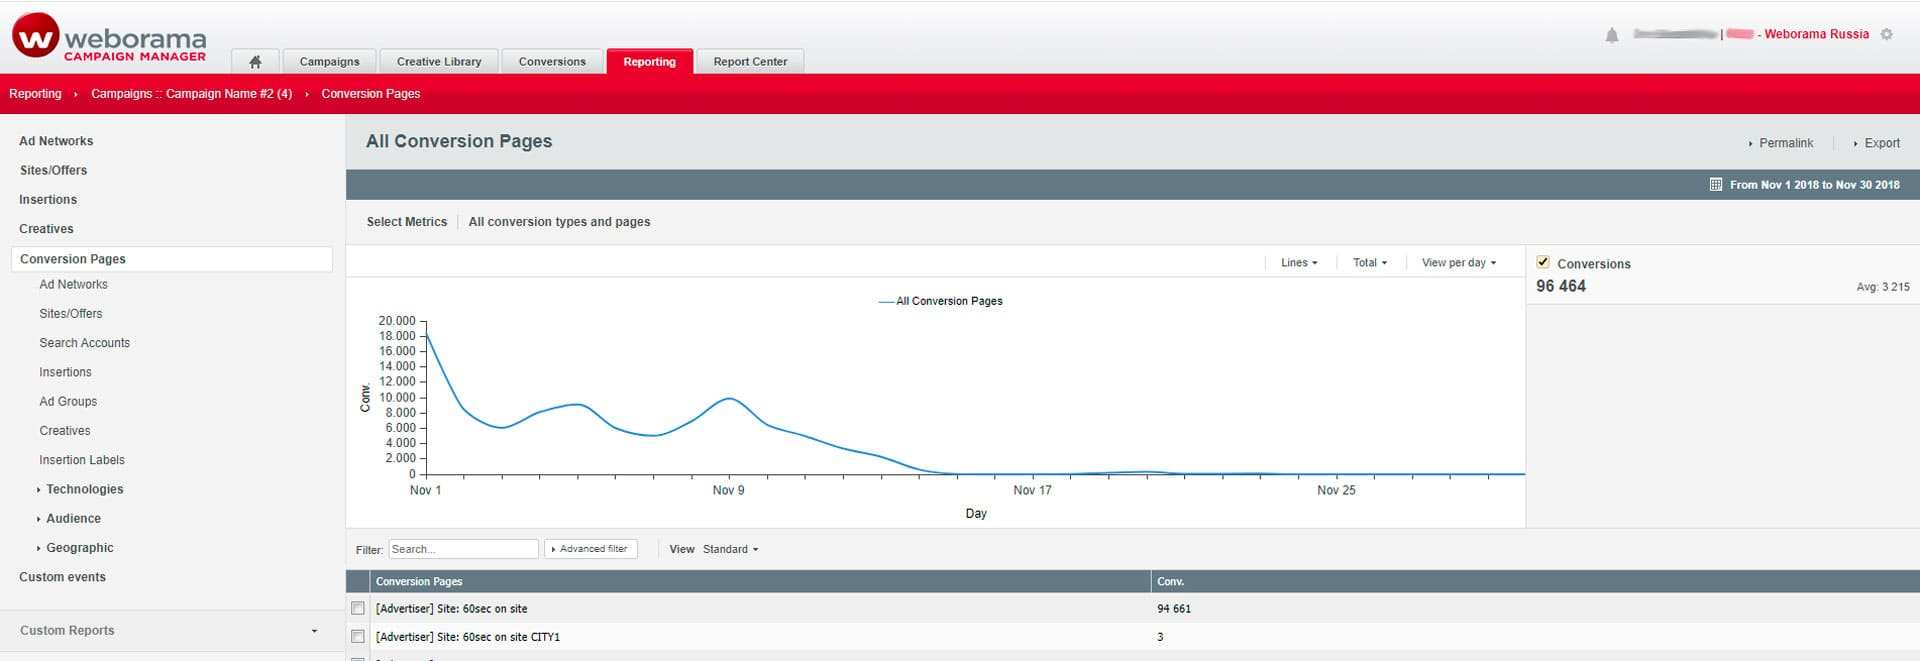
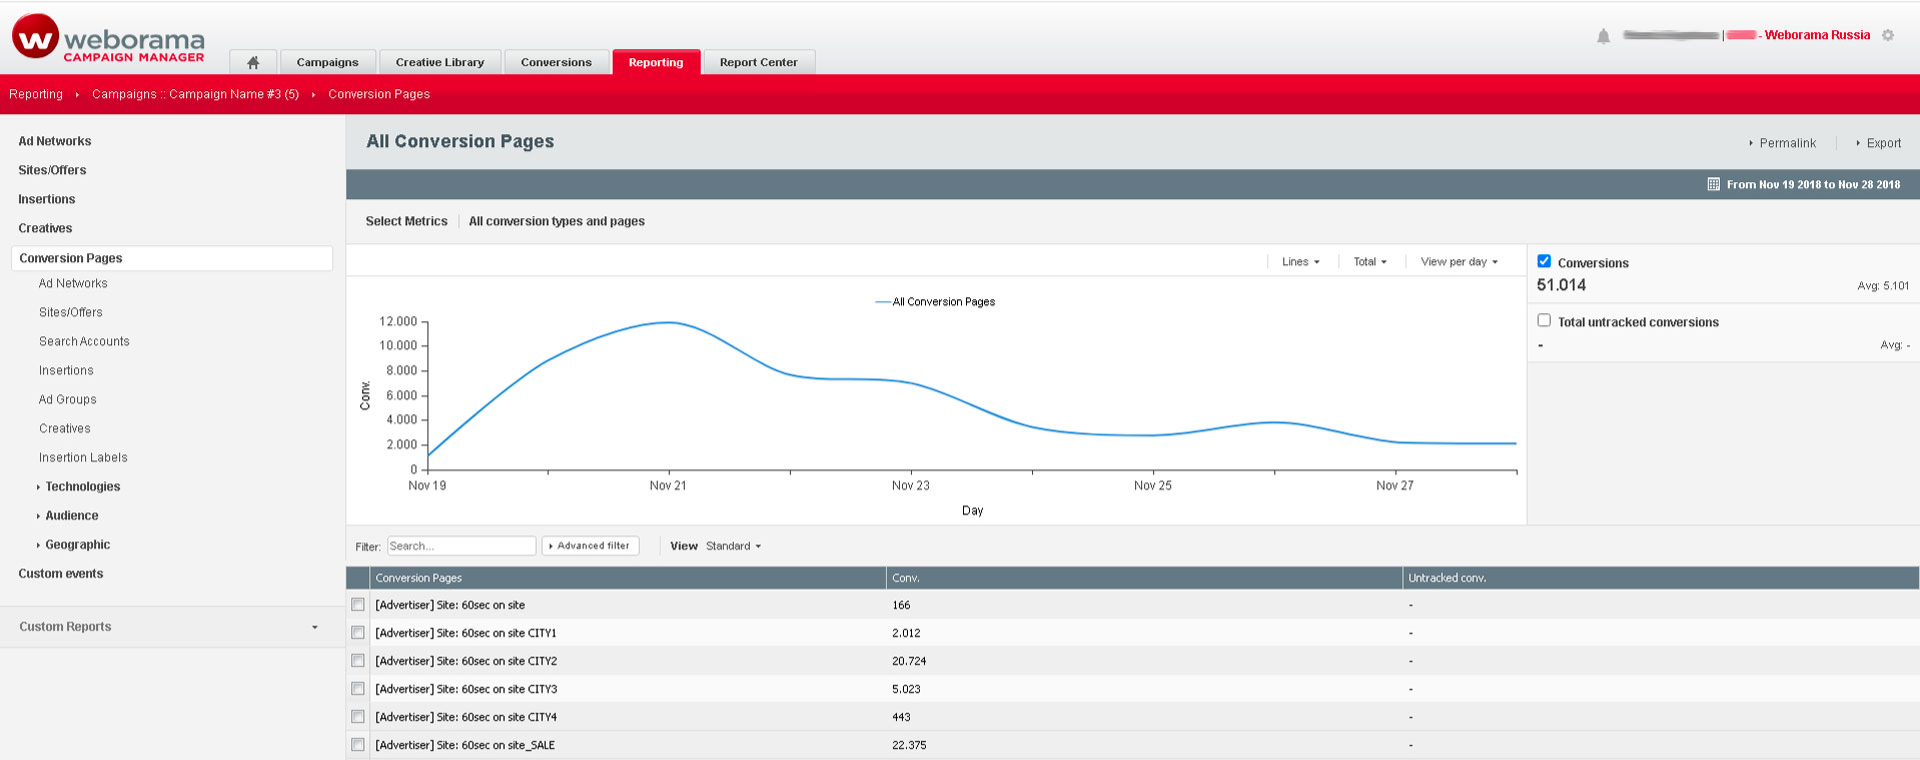
new pages

diff --git a/src/pages/conversion-report/conversion-tags.jsx b/src/pages/conversion-report/conversion-tags.jsx
@@ -1,0 +1,102 @@
+import React from "react";
+import { sectionsTexts } from "../../props/sectionsTexts";
+import { Image } from "../../components/image";
+import { SectionHeading } from "../../components/sectionHeading";
+import { RedWords } from "../../components/redWords";
+import { Link } from "../../components/links";
+
+export const ConversionTags = () => {
+    return (
+        <div className="section__wrapper">
+            <section className="section section__not-homepage" id="conversion-report">
+                <SectionHeading prop={sectionsTexts.conversionTags} />
+                <div className="section__content">
+                    <p className="section__lead">
+                        Чтобы вывести в&nbsp;отчет данные по&nbsp;конверсиям с&nbsp;привязкой к&nbsp;рекламной кампании необходимо:
+                    </p>
+                    <ol className="section__list">
+                        <li className="section__list-item">
+                            Зайти в&nbsp;основную вкладку <Link prop={{ text: "«Reporting»", href: "/reporting" }} />
+                        </li>
+                        <li className="section__list-item">
+                            Выбирать структурную единицу <Link prop={{ text: "«Campaigns»", href: "/campaigns" }} /> в&nbsp;меню уровней
+                            и&nbsp;отчетов (Столбец слева);
+                        </li>
+                        <li className="section__list-item">
+                            Провалиться внутри нужно кампании, кликнув по ней (Попадаем в подробный отчет с разбивкой по структуре –{" "}
+                            <RedWords prop={"«Campaign tree»"} />
+                            );
+                        </li>
+                        <li className="section__list-item">
+                            Зайти в&nbsp;меню <RedWords prop={"«Select Metrics»"} /> в&nbsp;левом углу над графиком;
+                        </li>
+                        <li className="section__list-item">
+                            В&nbsp;разделе <RedWords prop={"«Basic»"} /> выбрать метрику <RedWords prop={"«Conversions»"} /> и&nbsp;необходимы набор
+                            дополнительных метрик в&nbsp;разделе <RedWords prop={"«Performance»"} />;
+                        </li>
+                        <li className="section__list-item">
+                            Нажать <RedWords prop={"«Save & Close»"} /> для применения выбранных условий.
+                        </li>
+                    </ol>
+                </div>
+                <Image prop={sectionsTexts.conversionTags.image} />
+
+                <div className="section__content">
+                    <p className="section__lead">
+                        Для того, чтобы отобразить статистику по&nbsp;конверсиям на&nbsp;графике, необходимо поставить галочку в&nbsp;правом меню
+                        справа от&nbsp;графика.
+                    </p>
+                </div>
+                <Image prop={sectionsTexts.conversionTags.imageTwo} />
+
+                <div className="section__content">
+                    <p className="section__lead">Для разбивки конверсий по&nbsp;типам необходимо:</p>
+                    <ol className="section__list">
+                        <li className="section__list-item">
+                            Провалиться в&nbsp;меню <RedWords prop={"«All conversion types and pages»"} /> в&nbsp;левом углу над графиком;
+                        </li>
+                        <li className="section__list-item">
+                            В&nbsp;блоке <RedWords prop={"«Conversion types»"} /> выбрать необходимый тип конверсии;
+                        </li>
+                        <li className="section__list-item">
+                            Ниже в&nbsp;этом&nbsp;же блоке в&nbsp;разделе <RedWords prop={"«Display»"} /> выбираем опцию{" "}
+                            <RedWords prop={"«Breakdown by types»"} />, предварительно настроив список необходимых тегов в&nbsp;правом меню;
+                        </li>
+                        <li className="section__list-item">
+                            Кликнуть на&nbsp;
+                            <RedWords prop={"«Save & Close»"} /> для отображения настроенных параметров.
+                        </li>
+                    </ol>
+                </div>
+                <Image prop={sectionsTexts.conversionTags.imageThree} />
+
+                <div className="section__content">
+                    <p className="section__lead">
+                        Для просмотра данных по&nbsp;общему количеству конверсий без привязки к&nbsp;рекламной кампании, но&nbsp;отдельно
+                        по&nbsp;конверсионным тегам, необходимо:
+                    </p>
+                    <ol className="section__list">
+                        <li className="section__list-item">
+                            Перейти в&nbsp;раздел <RedWords prop={"«Conversion pages»"} /> в&nbsp;левом меню.
+                        </li>
+                    </ol>
+                </div>
+                <Image prop={sectionsTexts.conversionTags.imageFour} />
+
+                <div className="section__content">
+                    <p className="section__lead">
+                        Для того, чтобы просмотреть конверсии с&nbsp;детализацией по&nbsp;тегам и&nbsp;с&nbsp;привязкой к&nbsp;любой
+                        из&nbsp;структурных единиц (Проектам&nbsp;/ Каналам&nbsp;/ Кампаниям и&nbsp;т.&nbsp;д.) необходимо:
+                    </p>
+                    <ol className="section__list">
+                        <li className="section__list-item">
+                            В&nbsp;разделе под <RedWords prop={"«Conversion pages»"} /> выбрать необходимую структурную единицу, например,
+                            <RedWords prop={"«Sites/Offers»"} />.
+                        </li>
+                    </ol>
+                </div>
+                <Image prop={sectionsTexts.conversionTags.imageFive} />
+            </section>
+        </div>
+    );
+};

diff --git a/src/props/sectionsTexts.jsx b/src/props/sectionsTexts.jsx
@@ -16,6 +16,12 @@ import viewsReport from "../images/views-report.jpg";
 import viewsReportTwo from "../images/views-report-two.jpg";
 import viewsReportThree from "../images/views-report-three.jpg";
 import conversionReport from "../images/report-conversions.jpg";
+import conversionReportTwo from "../images/conversion-report-two.jpg";
+import conversionReportThree from "../images/conversion-report-three.jpg";
+import conversionReportFour from "../images/conversion-report-four.jpg";
+import conversionReportFive from "../images/conversion-report-five.jpg";
+import conversionReportSix from "../images/conversion-report-six.jpg";
+import conversionReportSeven from "../images/conversion-report-seven.jpg";
 import automatization from "../images/automatization.jpg";
 import automatizationTwo from "../images/automatization-two.jpg";
 import automatizationThree from "../images/automatization-three.jpg";
@@ -140,12 +146,24 @@ export const sectionsTexts = {
         classes: "section section__not-homepage",
         id: "conversion",
     },
+    conversionTags: {
+        title: "ОТЧЕТ ПО КОНВЕРСИЯМ И КОНВЕРСИОННЫМ ТЕГАМ",
+        image: conversionReportTwo,
+        imageTwo: conversionReportThree,
+        imageThree: conversionReportFour,
+        imageFour: conversionReportFive,
+        imageFive: conversionReportSix,
+        imageSix: conversionReportSeven,
+        classes: "section section__not-homepage",
+        id: "conversion-tags",
+    },
     automatization: {
         title: "Автоматизация отчетов",
         image: automatization,
         imageTwo: automatizationTwo,
         imageThree: automatizationThree,
         imageFour: automatizationFour,
+
         classes: "section section__not-homepage",
         id: "automatization",
     },

diff --git a/src/App.jsx b/src/App.jsx
@@ -22,6 +22,7 @@ import { AuditoriaReport } from "./pages/available-reports/auditoria-report";
 import { GeoReport } from "./pages/available-reports/geo-report";
 import { ConversionReport } from "./pages/conversion-report/conversion-report";
 import { Conversions } from "./pages/conversion-report/conversions";
+import { ConversionTags } from "./pages/conversion-report/conversion-tags";
 import { Automatization } from "./pages/automatization";
 import { NotFound } from "./pages/notFound";
 
@@ -52,6 +53,7 @@ function App() {
                     <Route path="/geo-report" element={<GeoReport />} />
                     <Route path="/conversion-report" element={<ConversionReport />} />
                     <Route path="/conversions" element={<Conversions />} />
+                    <Route path="/conversion-tags" element={<ConversionTags />} />
                     <Route path="/metrics" element={<Metrics />} />
                     <Route path="/automatization" element={<Automatization />} />
                     <Route path="/not-found" element={<NotFound />} />

diff --git a/src/pages/conversion-report/conversions.jsx b/src/pages/conversion-report/conversions.jsx
@@ -3,12 +3,11 @@ import { sectionsTexts } from "../../props/sectionsTexts";
 import { Image } from "../../components/image";
 import { SectionHeading } from "../../components/sectionHeading";
 import { RedWords } from "../../components/redWords";
-import { Link } from "../../components/links";
 
 export const Conversions = () => {
     return (
         <div className="section__wrapper">
-            <section className="section section__not-homepage" id="available-reports">
+            <section className="section section__not-homepage" id="conversion-report">
                 <SectionHeading prop={sectionsTexts.conversions} />
                 <div className="section__content">
                     <p className="section__lead">

diff --git a/src/components/menu.jsx b/src/components/menu.jsx
@@ -52,8 +52,6 @@ const Submenu = ({ prop }) => {
     if (prop.submenu === undefined) {
         return null;
     }
-    if (prop.id === "available-reports") {
-    }
     const listItems = prop.submenu.map((obj) => (
         <div className="menu__subitem" key={obj}>
             <a href={obj.link.toString()} className="menu__subitem-link">
